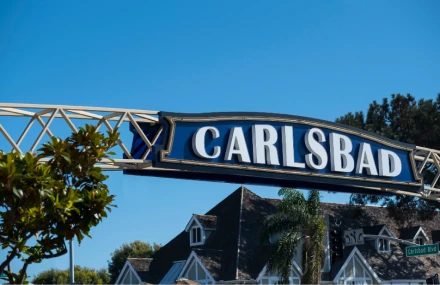
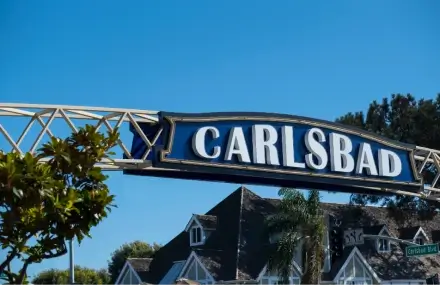
optimize images

diff --git a/bountiful-foods/about-us.html b/bountiful-foods/about-us.html
@@ -98,10 +98,9 @@
 
         <section class="background2 roots">
             <h2>- Contact Information -</h2>
-            <dir class="splash-container">
-                <iframe src="https://www.google.com/maps/embed?pb=!1m18!1m12!1m3!1d53458.13993378554!2d-117.31578496342513!3d33.13185070406777!2m3!1f0!2f0!3f0!3m2!1i1024!2i768!4f13.1!3m3!1m2!1s0x80dc73453f3bee59%3A0xa4cb5592fcf65d2f!2sCarlsbad%2C%20CA!5e0!3m2!1sen!2sus!4v1680324111634!5m2!1sen!2sus" width="80%" height="450" style="border:solid 7px #f7f7f7;" allowfullscreen="" loading="lazy" referrerpolicy="no-referrer-when-downgrade"></iframe>
-                
-                
+            <div class="splash-container">
+                <iframe src="https://www.google.com/maps/embed?pb=!1m18!1m12!1m3!1d53458.13993378554!2d-117.31578496342513!3d33.13185070406777!2m3!1f0!2f0!3f0!3m2!1i1024!2i768!4f13.1!3m3!1m2!1s0x80dc73453f3bee59%3A0xa4cb5592fcf65d2f!2sCarlsbad%2C%20CA!5e0!3m2!1sen!2sus!4v1680324111634!5m2!1sen!2sus" width="600" height="450" style="border:solid 7px #f7f7f7;" allowfullscreen="" loading="lazy" referrerpolicy="no-referrer-when-downgrade"></iframe>
+
                 <div class="contact-info">
                     <h3>Bountiful Foods</h3>
                     <p>
@@ -110,7 +109,7 @@
                     <p><span>📞</span> 760.555.1234</p>
                     <p><span>📧</span> BountifulFood@organicworld.org</p>
                 </div>
-            </dir>    
+            </div>    
         </section>
         <hr>
     </main>

diff --git a/bountiful-foods/fresh.html b/bountiful-foods/fresh.html
@@ -101,20 +101,20 @@
                     <fieldset id="fruit" >
                         <legend>My Juice Blend</legend>
                         <div class="top">
-                        <label for="fruit-list">Choose your Fruit</label>
-                        <select name="fruit-list" class="fruit-list1">
+                        <label for="fruit-list1">Choose your Fruit</label>
+                        <select name="fruit-list1" id="fruit-list1">
                         </select>
                         </div>
 
                         <div class="top">
-                        <label for="fruit-list">Choose your Fruit</label>
-                        <select name="fruit-list" class="fruit-list2">
+                        <label for="fruit-list2">Choose your Fruit</label>
+                        <select name="fruit-list2" id="fruit-list2">
                         </select>
                         </div>
 
                         <div class="top">
-                        <label for="fruit-list">Choose your Fruit</label>
-                        <select name="fruit-list" class="fruit-list3">
+                        <label for="fruit-list3">Choose your Fruit</label>
+                        <select name="fruit-list3" id="fruit-list3">
                         </select>
                         </div>
 

diff --git a/bountiful-foods/scripts/fresh.js b/bountiful-foods/scripts/fresh.js
@@ -19,7 +19,7 @@ getFruitData(url);
 /*-------FRUIT SELECTION--drop-down-boxes------*/
 const displayFruits = (fruits, service) => {
     //select the output container element
-    const fruitList1 = document.querySelector('.fruit-list1');
+    const fruitList1 = document.querySelector('#fruit-list1');
 
     fruitCount = 0;
     fruits.forEach((fruit) => {
@@ -38,7 +38,7 @@ const displayFruits = (fruits, service) => {
 
 const displayFruits2 = (fruits, service) => {
     //select the output container element
-    const fruitList2 = document.querySelector('.fruit-list2');
+    const fruitList2 = document.querySelector('#fruit-list2');
 
     fruits.forEach((fruit) => {
         //Create element to add to the juice bar fruit list
@@ -56,7 +56,7 @@ const displayFruits2 = (fruits, service) => {
 
 const displayFruits3 = (fruits, service) => {
     //select the output container element
-    const fruitList3 = document.querySelector('.fruit-list3');
+    const fruitList3 = document.querySelector('#fruit-list3');
 
     fruits.forEach((fruit) => {
         //Create element to add to the juice bar fruit list

diff --git a/bountiful-foods/styles/base.css b/bountiful-foods/styles/base.css
@@ -32,7 +32,7 @@
     grid-template-columns:3fr 2fr 1fr 2fr 3fr;
     width:100%;
     height: 440px;
-    background-image: url("../images/hero-field.webp");
+    background-image: url("../images/hero1920tiny.webp");
     
     position: sticky;
     top: -41vh;
@@ -89,7 +89,7 @@
     justify-content: center;
     box-shadow: 0 0 40px var(--color-primary);
     position: sticky;
-    top: 5vh;
+    top: 6.2vh;
 
  }
 
@@ -148,7 +148,6 @@ nav #container:hover {
 /*This is the navigation style*/
 nav {
     position: absolute;
-    /*top: vh;*/
     right: 10vw;
 
     align-self: flex-start;
@@ -341,6 +340,7 @@ img[data-src] {
 
 .polka-dots .juice-count p {
     margin: 10px;
+    
 }
 
 .roots {
@@ -739,7 +739,7 @@ tr:nth-child(odd) {
 iframe {
     margin: -50px;
     box-shadow: 0 0 10px #7d7b7b; 
-    width
+    width: 80%;
 }
 
 /* ----------Resources Page---------- */

diff --git a/bountiful-foods/index.html b/bountiful-foods/index.html
@@ -128,7 +128,7 @@
                         <div class="day"> Today</div>
                         <div id="current-info">
                             <figure>
-                                <img src="" alt="logo" class="emoji">
+                                <img src="images/weather-placeholder.webp" alt="logo" class="emoji">
                                 <figcaption class="emoji-caption">Sunny Skys
                                 </figcaption>
                             </figure>

diff --git a/bountiful-foods/styles/medium.css b/bountiful-foods/styles/medium.css
@@ -1,5 +1,9 @@
 @media only screen and (min-width: 765px) {
 
+    heaader {
+        background-image: url("../images/hero1200tiny.webp");
+    }
+
    .background h2 {
     margin-bottom: 0;
    }
